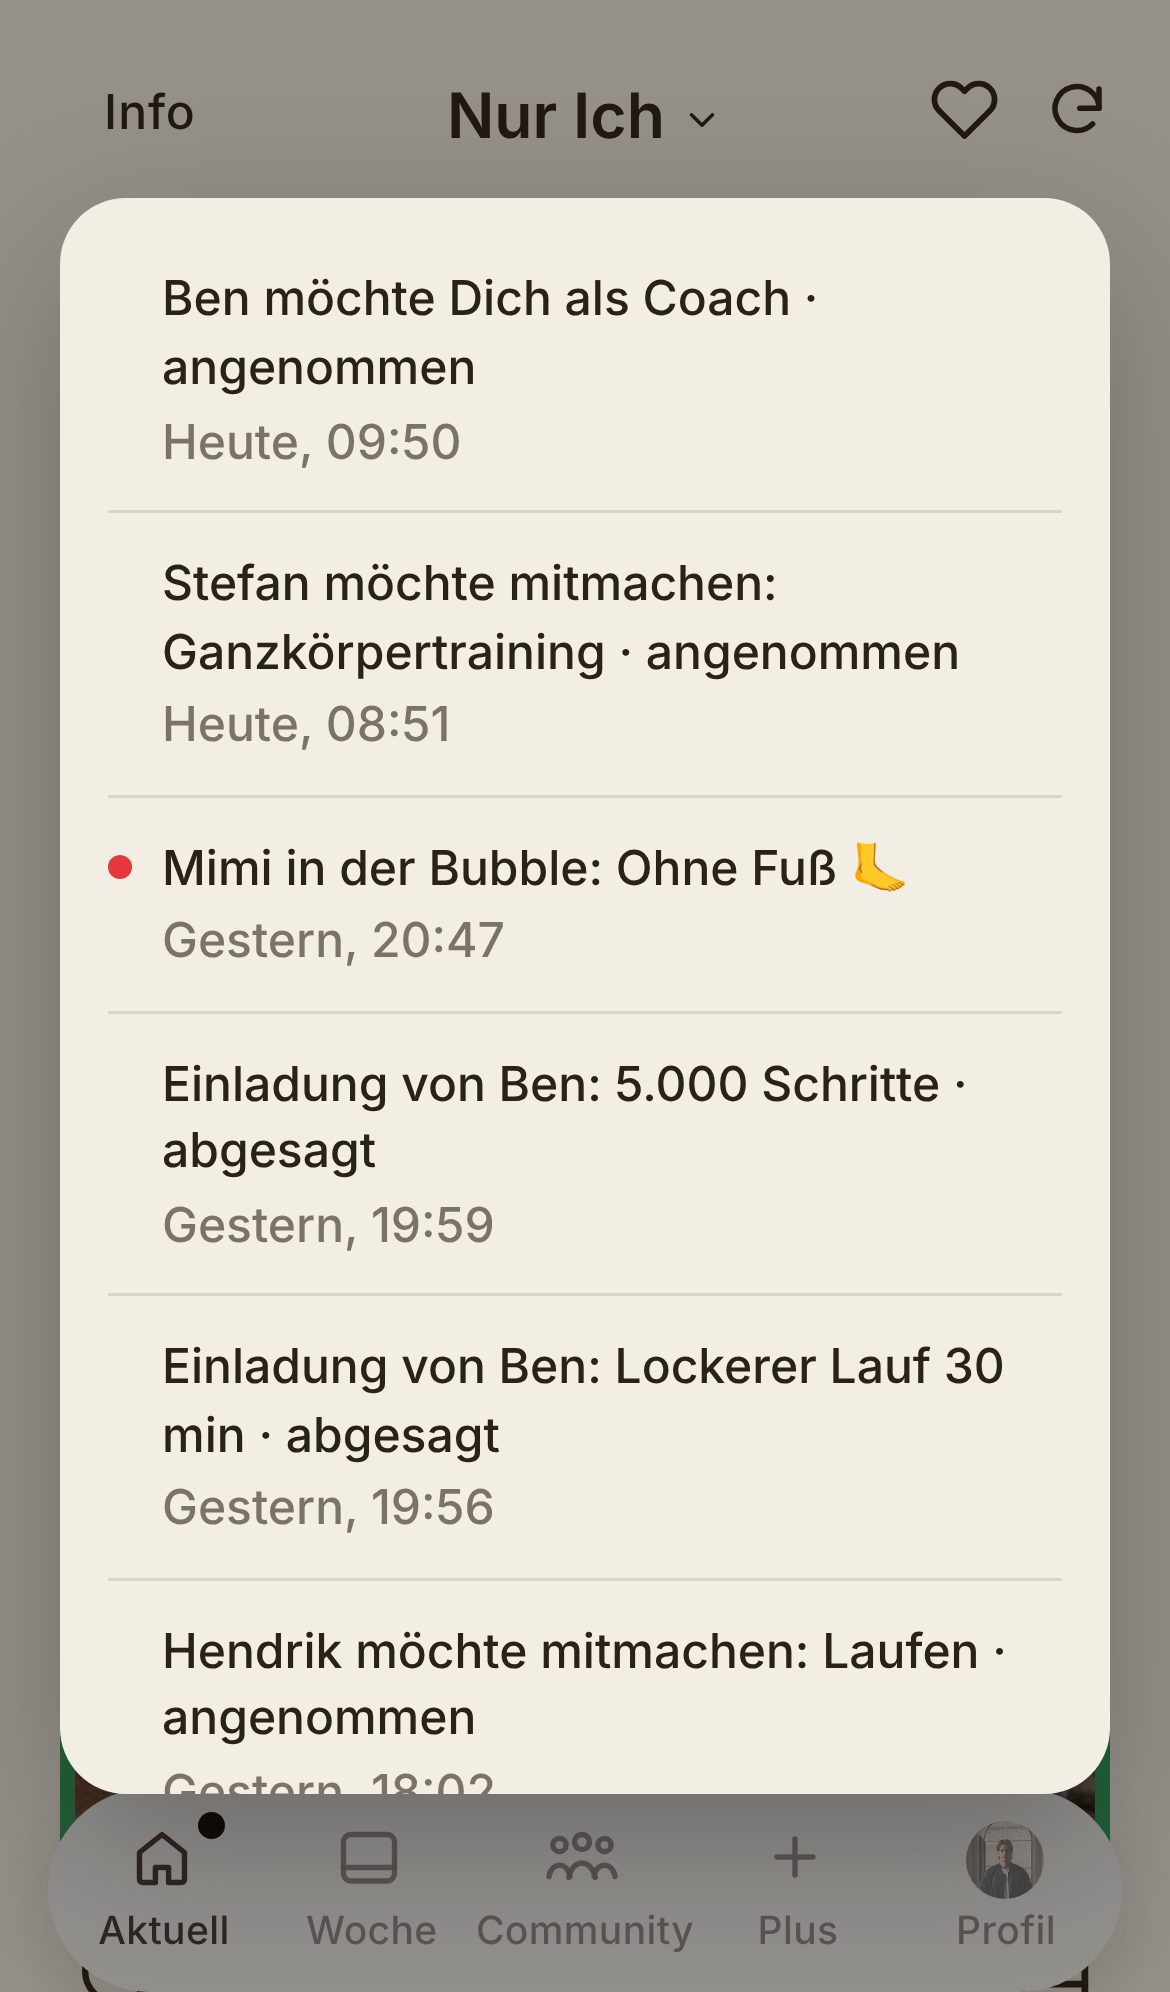
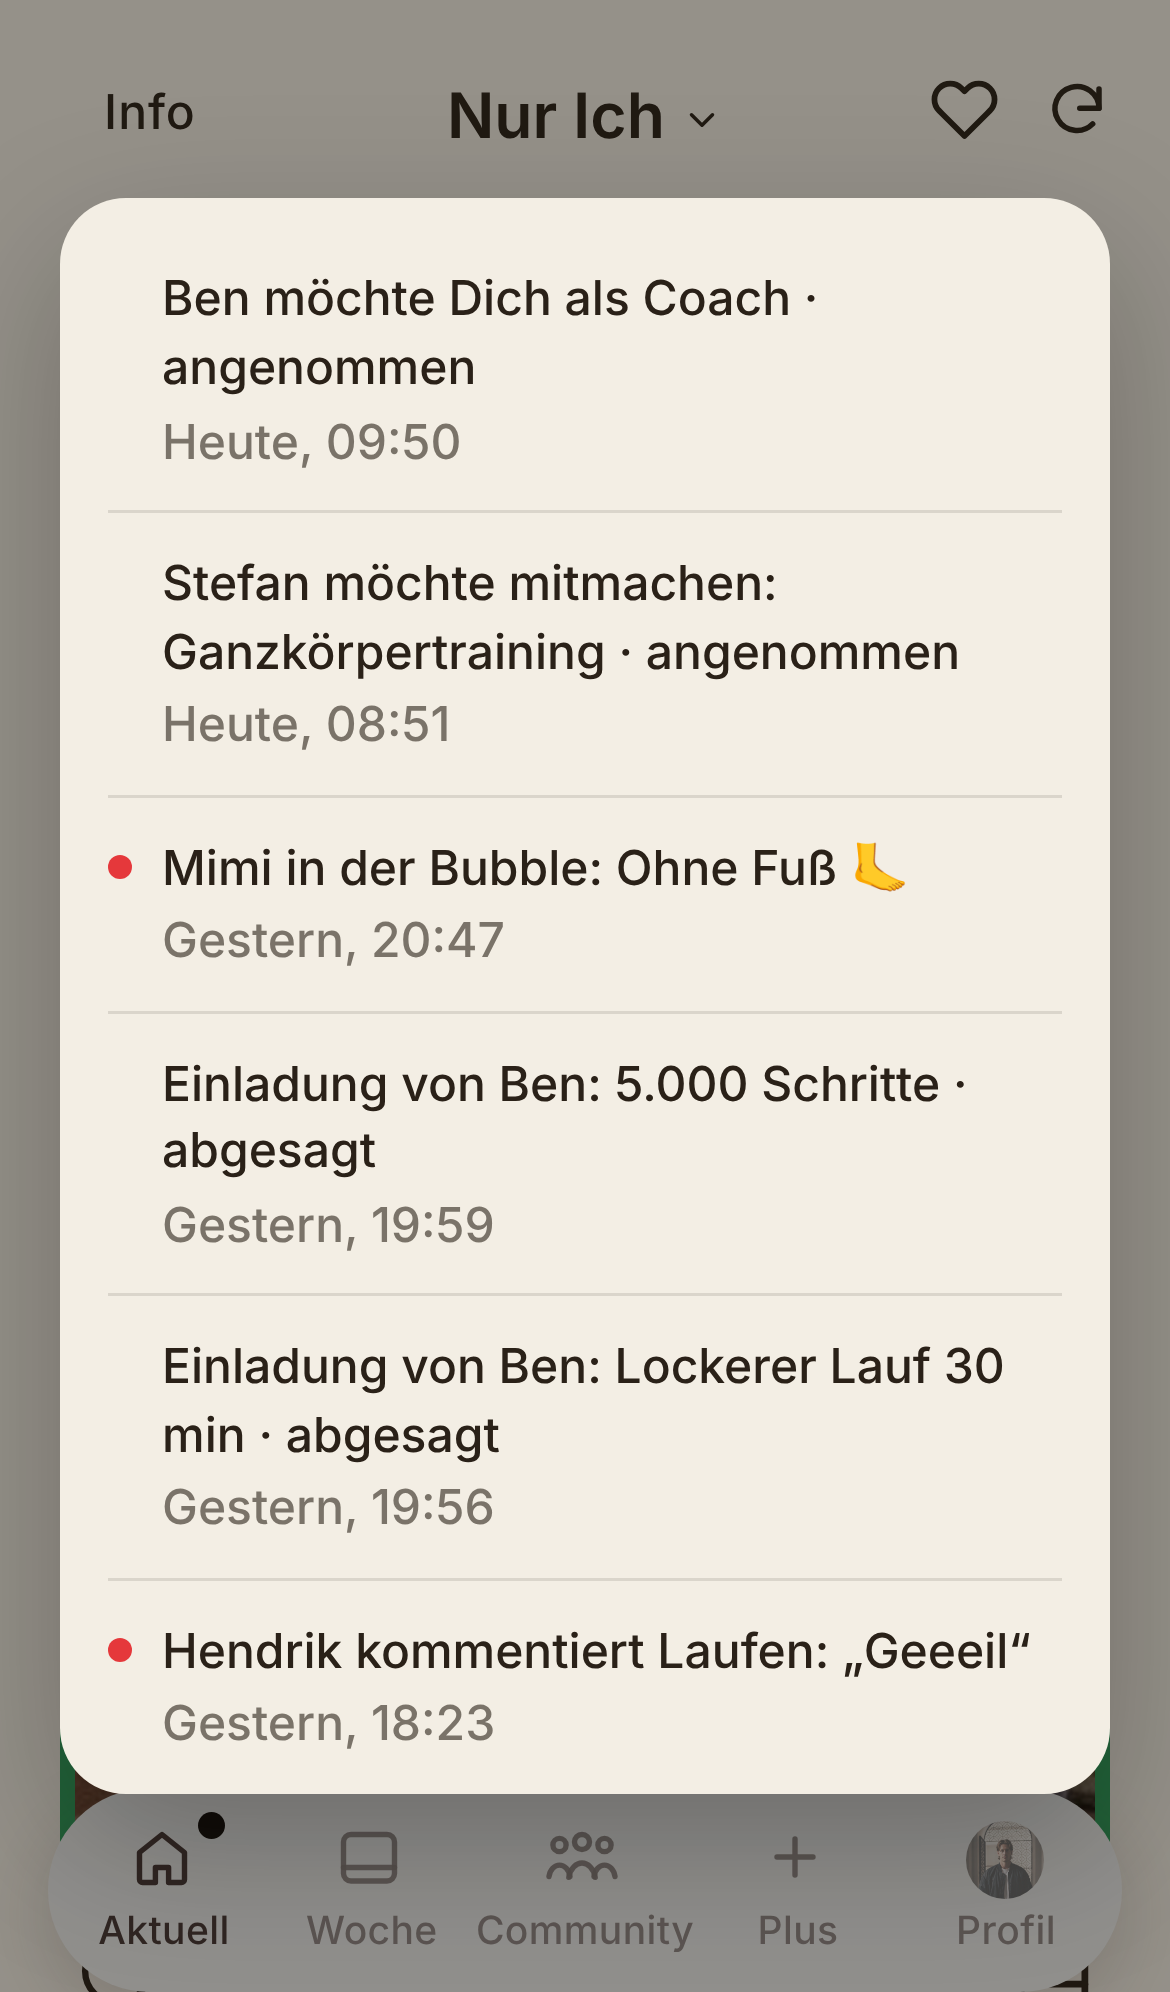
Feat: Herz meldet Kommentare anderer unter meinen Events
Claude-Session: https://claude.ai/code/session_01SnMqKv5zn4y6tTB2Dr6z7n

Changed region(s): [[0.1231, 0.8092, 0.8615, 0.9026], [0.0923, 0.8092, 0.1231, 0.8404]]

diff --git a/natalyaalice/heute-v3.js b/natalyaalice/heute-v3.js
@@ -191,7 +191,10 @@
         "&select=id,event_id,to_id,status,decided_at,events(title)&order=decided_at.desc&limit=20").catch(function () { return []; }),
       rest("go_coachee_requests?and=(or(coach_id.eq." + me() + ",user_id.eq." + me() + "),or(status.eq.pending,created_at.gte." + since + ",decided_at.gte." + since + "))" +
         "&select=id,user_id,coach_id,status,created_at,decided_at&order=created_at.desc&limit=20").catch(function () { return []; }),
-      rest("go_messages?or=(to_id.is.null,to_id.eq." + me() + ")&created_at=gte." + sinceQ + "&select=id,body,created_at&order=created_at.desc&limit=20").catch(function () { return []; })
+      rest("go_messages?or=(to_id.is.null,to_id.eq." + me() + ")&created_at=gte." + sinceQ + "&select=id,body,created_at&order=created_at.desc&limit=20").catch(function () { return []; }),
+      /* Kommentare anderer unter meinen Events */
+      rest("event_comments?account_id=neq." + uid + "&created_at=gte." + sinceQ + "&events.user_id=eq." + uid +
+        "&select=id,event_id,account_id,text,created_at,reply_to_account,events!inner(user_id,title)&order=created_at.desc&limit=30").catch(function () { return []; })
     ];
     var ST = { accepted: "angenommen", declined: "abgelehnt", withdrawn: "zurückgezogen" };
     return Promise.all(jobs).then(function (r) {
@@ -237,6 +240,13 @@
         out.push({ kind: "msg", created_at: plans[0].created_at, past: true, label: "Es gibt neue Trainingspläne.",
           open: function () { if (global.GoDialog) GoDialog.alert("Es gibt neue Trainingspläne.", { body: names.join(", ") + "\n\nDu findest sie unter Woche → Stift → Wochenplan ändern." }); } });
       } else restMsgs = restMsgs.concat(plans);
+      (r[6] || []).forEach(function (c) {
+        /* Antworten an mich kommen schon als „reply“ */
+        if (String(c.reply_to_account || "") === me()) return;
+        out.push({ kind: "comment", created_at: c.created_at, account_id: c.account_id, past: false,
+          labelFn: function () { return first(c.account_id) + " kommentiert " + ((c.events && c.events.title) || "Dein Event") + ": „" + String(c.text || "").slice(0, 80) + "“"; },
+          open: function () { openReplyEvent(c.event_id); } });
+      });
       restMsgs.forEach(function (m) {
         out.push({ kind: "msg", created_at: m.created_at, past: true, label: String(m.body || "Mitteilung").slice(0, 120),
           open: function () { if (global.GoDialog) GoDialog.alert(String(m.body || "")); } });
